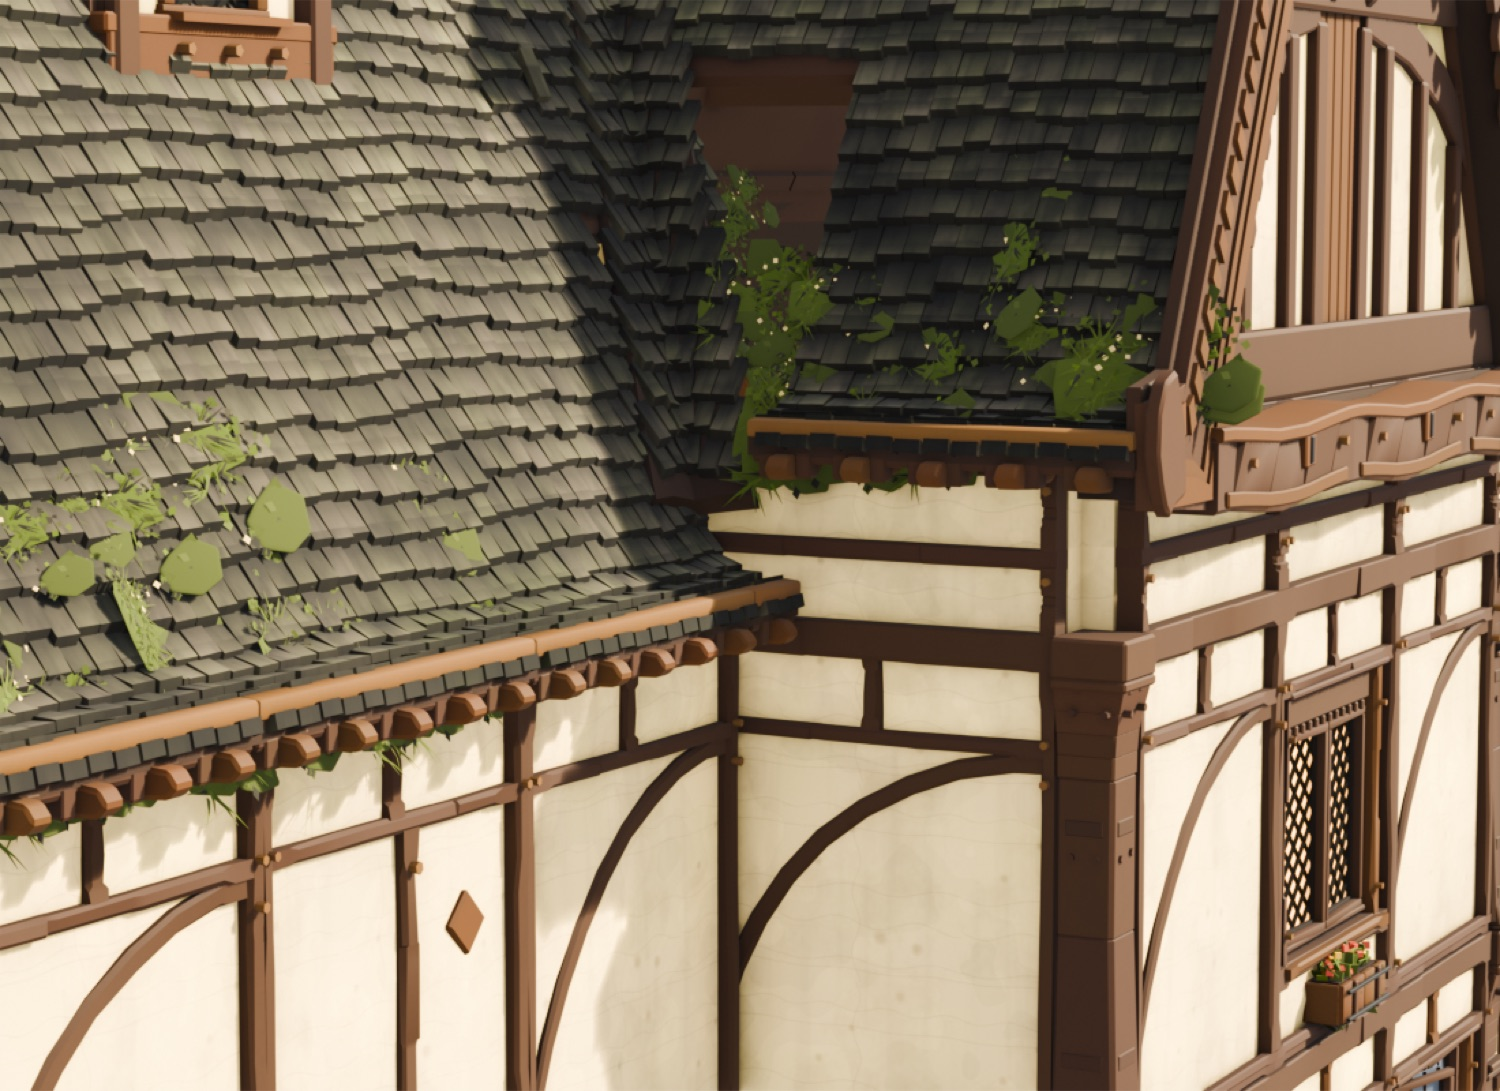
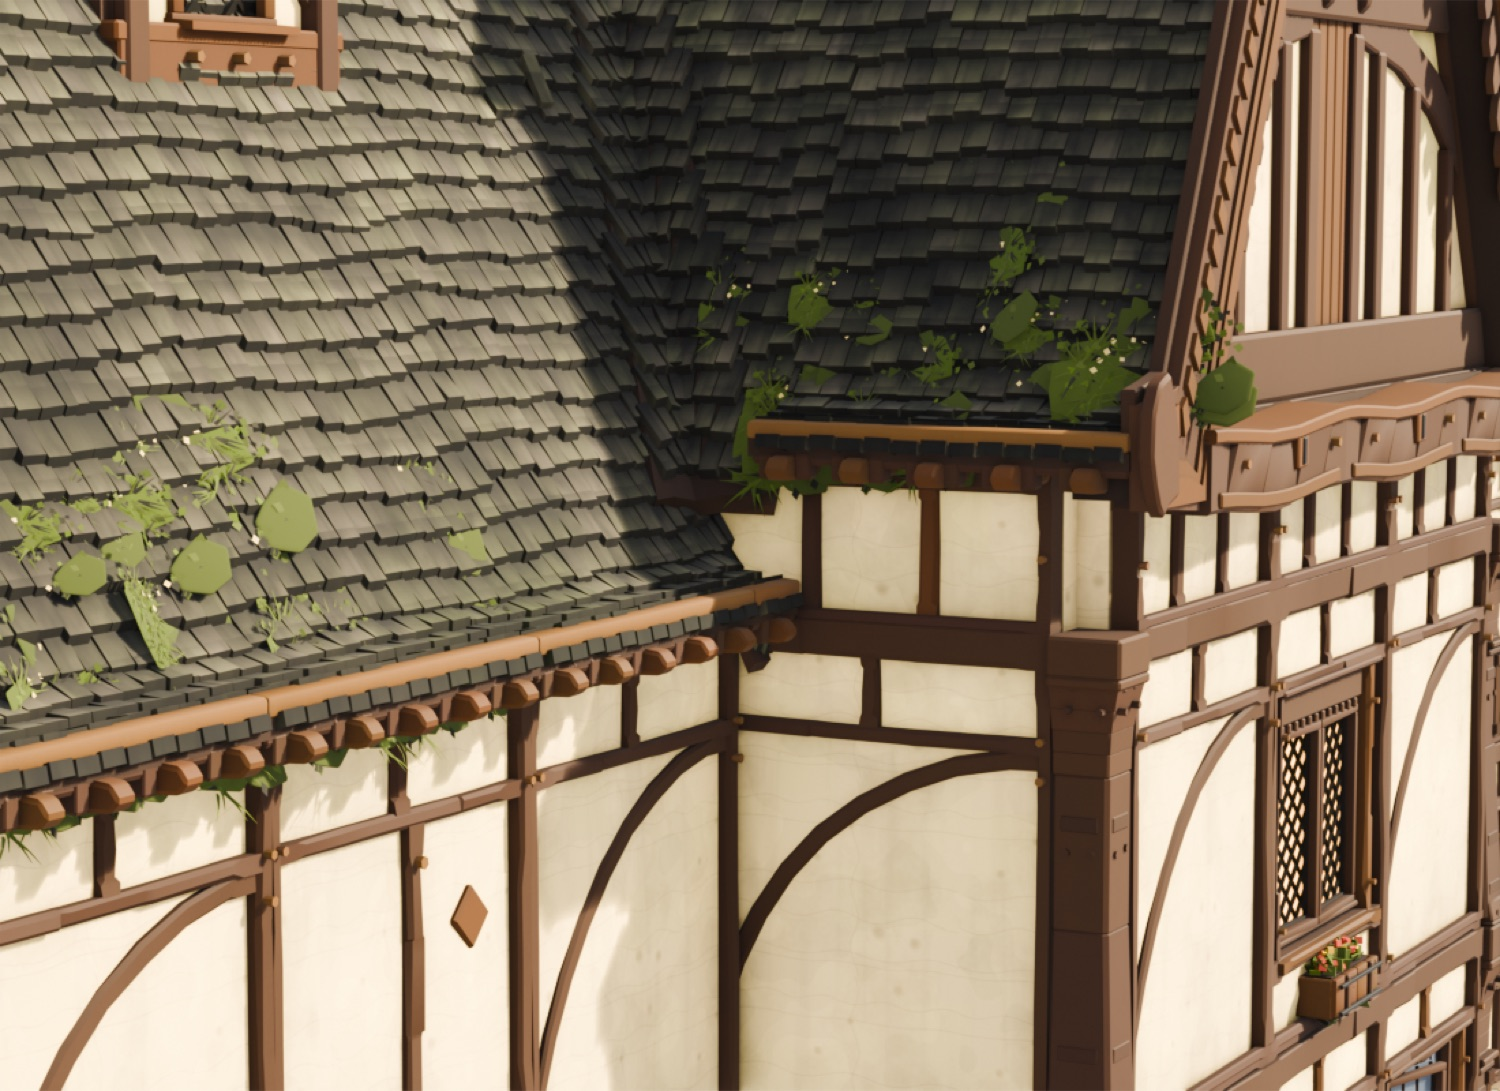
Re-render the detail image; the hole in it was already fixed
Shanee spotted a gap in the roof in the "Detail that survives a close-up"
image -- missing shingles at the valley. It was real, and it was exactly the
lay_roof bug fixed in 02afcfa: the eave course was dropped whole wherever its
drip was buried, and nothing was laid in the vacated upslope half. The image
predated the fix by an hour. Re-rendered from the current build; the valley runs
continuous.

Also adds the tight junction view and states the 0.80 m eave step explicitly,
since it reads as an oddity and is not one: MAIN datum 8.80 + BASE puts its eave
course at z 8.96, HERO datum 9.60 + BASE puts its own at 9.76, and a wing datum
BELOW the range's would drop its eave line clear of the range's roof with no
valley line to lay at all.

diff --git a/README.md b/README.md
@@ -37,6 +37,12 @@ all from the pieces above, no new geometry:
 
 ![Close detail](images/detail.jpg)
 
+Where the range's roof meets the taller cross wing, the two eave lines sit **0.80 m apart**
+— deliberately. The wing's datum has to stand above the range's or its roof planes never
+cross the range's, and there is no valley line to lay:
+
+![The two-eave junction](images/junction.jpg)
+
 ![Aerial](images/inn-aerial.jpg)
 
 ---
